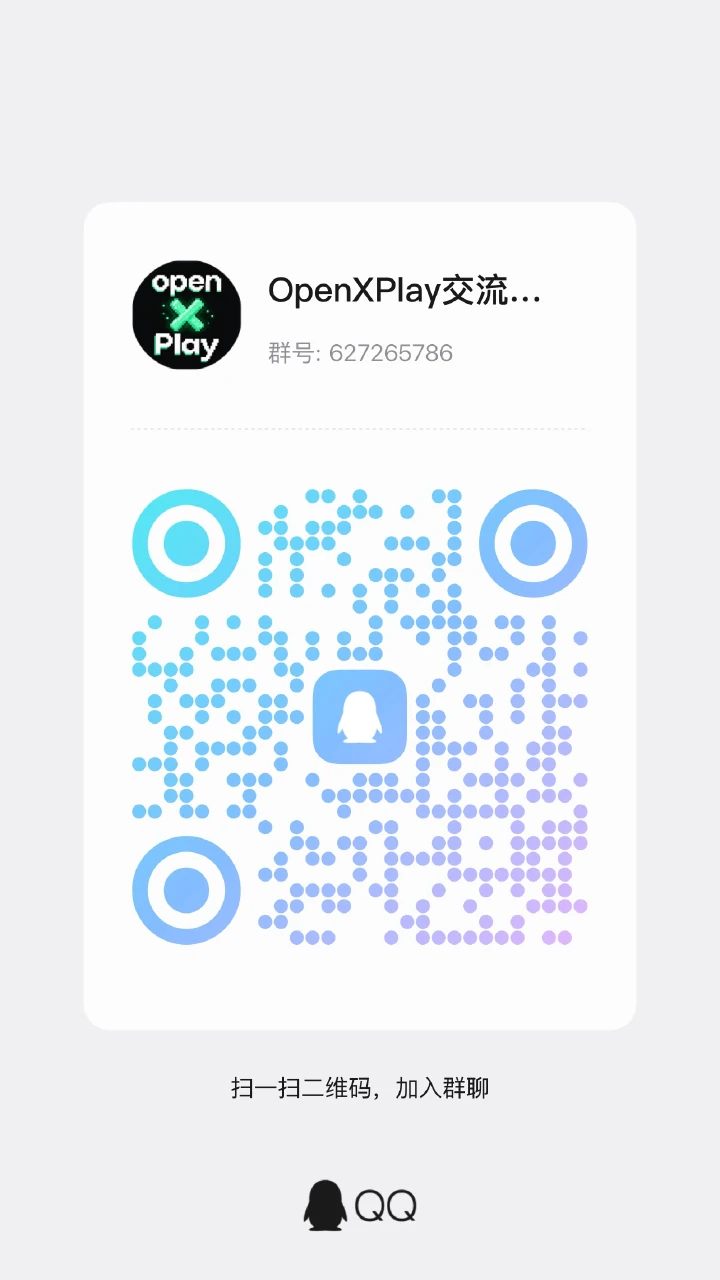
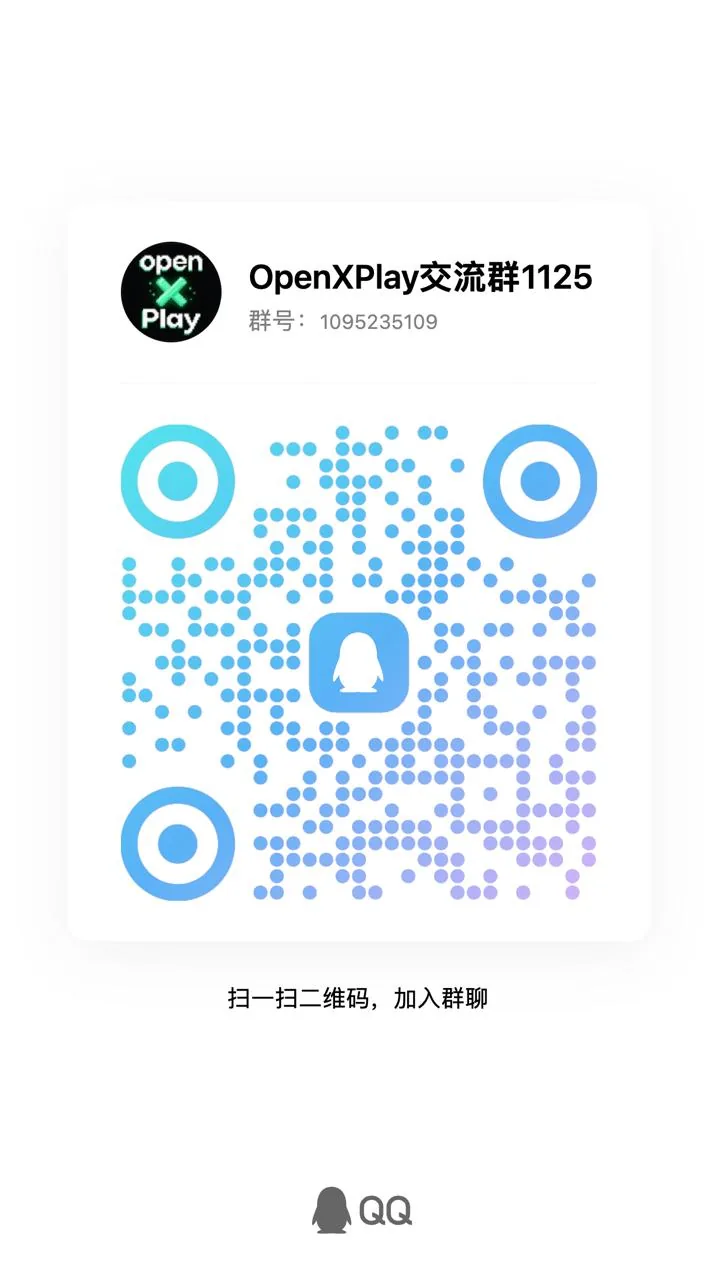
Update website QR · public:qq

diff --git a/README.md b/README.md
@@ -74,12 +74,12 @@ The two have different focuses. OpenXPlay gives head units that can't install ap
 Share how OpenXPlay works with your head unit, swap experiences, report problems, and help test and develop the project.
 
 - **Discord:** <https://discord.gg/j3cKd5Tax>
-- **QQ group:** 627265786
+- **QQ group:** 1095235109
 - **WeChat group:** scan the QR code below
 
 <table>
-  <tr><th width="270">QQ group · 627265786</th><th width="270">WeChat group</th></tr>
-  <tr><td valign="top"><img src="Group/QQ_Group_5.webp" alt="QR code for joining the OpenXPlay QQ group, 627265786" width="270"></td><td valign="top"><img src="Group/Wechat_Group.webp" alt="QR code for joining the OpenXPlay WeChat group" width="270"></td></tr>
+  <tr><th width="270">QQ group · 1095235109</th><th width="270">WeChat group</th></tr>
+  <tr><td valign="top"><img src="Group/QQ_Group_5.webp" alt="QR code for joining the OpenXPlay QQ group, 1095235109" width="270"></td><td valign="top"><img src="Group/Wechat_Group.webp" alt="QR code for joining the OpenXPlay WeChat group" width="270"></td></tr>
 </table>
 
 When you report a compatibility problem, please include the head unit model, system version, the solution you used and what happened.

diff --git a/site/ru/community.md b/site/ru/community.md
@@ -15,14 +15,14 @@ breadcrumb: Сообщество
 
 | Канал | Как присоединиться |
 | --- | --- |
-| Группа QQ | 627265786 или отсканируйте QR-код ниже |
+| Группа QQ | 1095235109 или отсканируйте QR-код ниже |
 | Группа WeChat | Отсканируйте QR-код ниже |
 | Discord | [discord.gg/j3cKd5Tax](https://discord.gg/j3cKd5Tax) |
 
 <div class="oxp-community-qr">
   <figure class="oxp-figure">
-    <figcaption>Группа QQ · 627265786</figcaption>
-    <img src="../../Group/QQ_Group_5.webp" width="720" height="1280" loading="lazy" decoding="async" alt="QR-код для вступления в группу QQ OpenXPlay, 627265786">
+    <figcaption>Группа QQ · 1095235109</figcaption>
+    <img src="../../Group/QQ_Group_5.webp" width="718" height="1280" loading="lazy" decoding="async" alt="QR-код для вступления в группу QQ OpenXPlay, 1095235109">
   </figure>
   <figure class="oxp-figure is-wechat">
     <figcaption>Группа WeChat</figcaption>

diff --git a/site/es/community.md b/site/es/community.md
@@ -15,14 +15,14 @@ Cuenta cómo funciona OpenXPlay con tu unidad principal, comparte experiencias, 
 
 | Canal | Cómo unirte |
 | --- | --- |
-| Grupo de QQ | 627265786, o escanea el código QR de abajo |
+| Grupo de QQ | 1095235109, o escanea el código QR de abajo |
 | Grupo de WeChat | Escanea el código QR de abajo |
 | Discord | [discord.gg/j3cKd5Tax](https://discord.gg/j3cKd5Tax) |
 
 <div class="oxp-community-qr">
   <figure class="oxp-figure">
-    <figcaption>Grupo de QQ · 627265786</figcaption>
-    <img src="../../Group/QQ_Group_5.webp" width="720" height="1280" loading="lazy" decoding="async" alt="Código QR para unirse al grupo de QQ de OpenXPlay, 627265786">
+    <figcaption>Grupo de QQ · 1095235109</figcaption>
+    <img src="../../Group/QQ_Group_5.webp" width="718" height="1280" loading="lazy" decoding="async" alt="Código QR para unirse al grupo de QQ de OpenXPlay, 1095235109">
   </figure>
   <figure class="oxp-figure is-wechat">
     <figcaption>Grupo de WeChat</figcaption>

diff --git a/site/ru/index.md b/site/ru/index.md
@@ -90,4 +90,4 @@ OpenXPlay работает через локальные подключения:
 
 ## Присоединяйтесь к сообществу {#join}
 
-Расскажите, как OpenXPlay работает с вашим головным устройством, сообщайте о проблемах или помогайте тестировать и развивать проект: [Discord](https://discord.gg/j3cKd5Tax), группа QQ **627265786** и группа WeChat. QR-коды — на странице [Сообщество](/ru/community).
+Расскажите, как OpenXPlay работает с вашим головным устройством, сообщайте о проблемах или помогайте тестировать и развивать проект: [Discord](https://discord.gg/j3cKd5Tax), группа QQ **1095235109** и группа WeChat. QR-коды — на странице [Сообщество](/ru/community).

diff --git a/site/en/community.md b/site/en/community.md
@@ -15,14 +15,14 @@ Share how OpenXPlay works with your head unit, swap experiences, report problems
 
 | Channel | How to join |
 | --- | --- |
-| QQ group | 627265786, or scan the QR code below |
+| QQ group | 1095235109, or scan the QR code below |
 | WeChat group | Scan the QR code below |
 | Discord | [discord.gg/j3cKd5Tax](https://discord.gg/j3cKd5Tax) |
 
 <div class="oxp-community-qr">
   <figure class="oxp-figure">
-    <figcaption>QQ group · 627265786</figcaption>
-    <img src="../../Group/QQ_Group_5.webp" width="720" height="1280" loading="lazy" decoding="async" alt="QR code for joining the OpenXPlay QQ group, 627265786">
+    <figcaption>QQ group · 1095235109</figcaption>
+    <img src="../../Group/QQ_Group_5.webp" width="718" height="1280" loading="lazy" decoding="async" alt="QR code for joining the OpenXPlay QQ group, 1095235109">
   </figure>
   <figure class="oxp-figure is-wechat">
     <figcaption>WeChat group</figcaption>

diff --git a/site/zh/community.md b/site/zh/community.md
@@ -15,14 +15,14 @@ breadcrumb: 交流群
 
 | 渠道 | 加入方式 |
 | --- | --- |
-| QQ 交流群 | 627265786，或扫描下方二维码 |
+| QQ 交流群 | 1095235109，或扫描下方二维码 |
 | 微信群 | 扫描下方二维码 |
 | Discord | [discord.gg/j3cKd5Tax](https://discord.gg/j3cKd5Tax) |
 
 <div class="oxp-community-qr">
   <figure class="oxp-figure">
-    <figcaption>QQ 交流群 · 627265786</figcaption>
-    <img src="../../Group/QQ_Group_5.webp" width="720" height="1280" loading="lazy" decoding="async" alt="OpenXPlay QQ 交流群 627265786 的入群二维码">
+    <figcaption>QQ 交流群 · 1095235109</figcaption>
+    <img src="../../Group/QQ_Group_5.webp" width="718" height="1280" loading="lazy" decoding="async" alt="OpenXPlay QQ 交流群 1095235109 的入群二维码">
   </figure>
   <figure class="oxp-figure is-wechat">
     <figcaption>微信群</figcaption>

diff --git a/site/es/index.md b/site/es/index.md
@@ -90,4 +90,4 @@ Hay más respuestas en las [Preguntas frecuentes](/es/faq); para problemas con l
 
 ## Únete a la comunidad {#join}
 
-Cuenta cómo funciona OpenXPlay con tu unidad principal, reporta problemas o ayuda a probar y desarrollar el proyecto: [Discord](https://discord.gg/j3cKd5Tax), el grupo de QQ **627265786** y un grupo de WeChat. Los códigos QR están en la página [Comunidad](/es/community).
+Cuenta cómo funciona OpenXPlay con tu unidad principal, reporta problemas o ayuda a probar y desarrollar el proyecto: [Discord](https://discord.gg/j3cKd5Tax), el grupo de QQ **1095235109** y un grupo de WeChat. Los códigos QR están en la página [Comunidad](/es/community).

diff --git a/site/en/index.md b/site/en/index.md
@@ -90,4 +90,4 @@ More answers are in the [FAQ](/en/faq); for problems with the connection, the pi
 
 ## Join the community {#join}
 
-Share how OpenXPlay works with your head unit, report problems, or help test and develop the project: [Discord](https://discord.gg/j3cKd5Tax), QQ group **627265786** and a WeChat group. The QR codes are on the [Community](/en/community) page.
+Share how OpenXPlay works with your head unit, report problems, or help test and develop the project: [Discord](https://discord.gg/j3cKd5Tax), QQ group **1095235109** and a WeChat group. The QR codes are on the [Community](/en/community) page.

diff --git a/skills/openxplay-guide/SKILL.md b/skills/openxplay-guide/SKILL.md
@@ -145,7 +145,7 @@ The community groups are where drivers report problems, share how their head uni
 
 | Channel | How to join |
 | --- | --- |
-| QQ group | Number `627265786`, or the QR code on the community page |
+| QQ group | Number `1095235109`, or the QR code on the community page |
 | WeChat group | The QR code on the community page. It expires and is refreshed; if it has expired, join QQ or Discord and ask there for an invitation. |
 | Discord | <https://discord.gg/j3cKd5Tax> |
 
